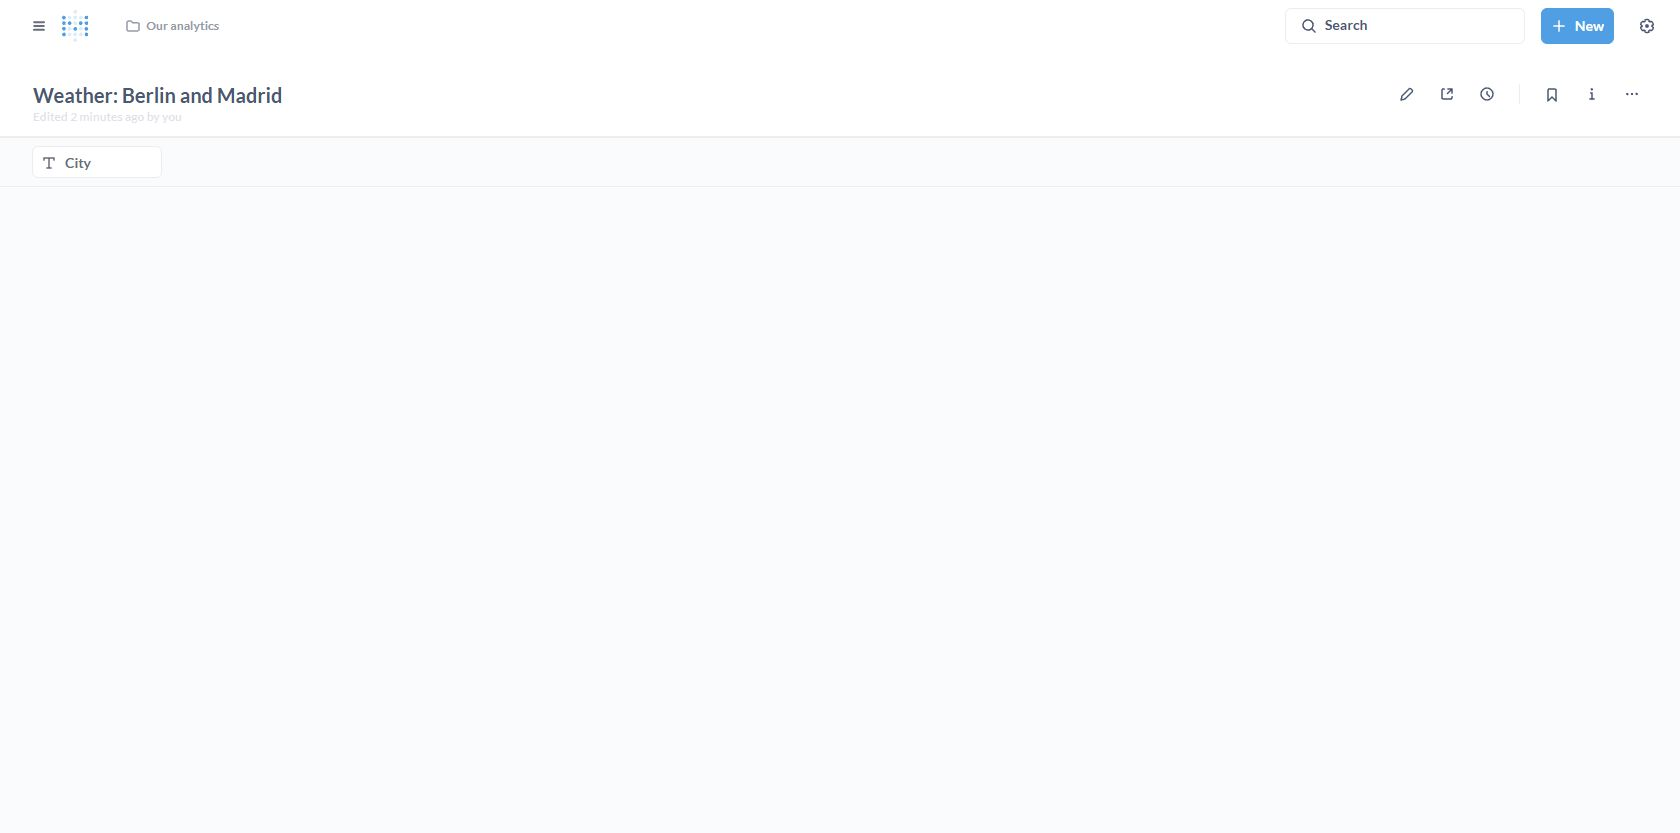
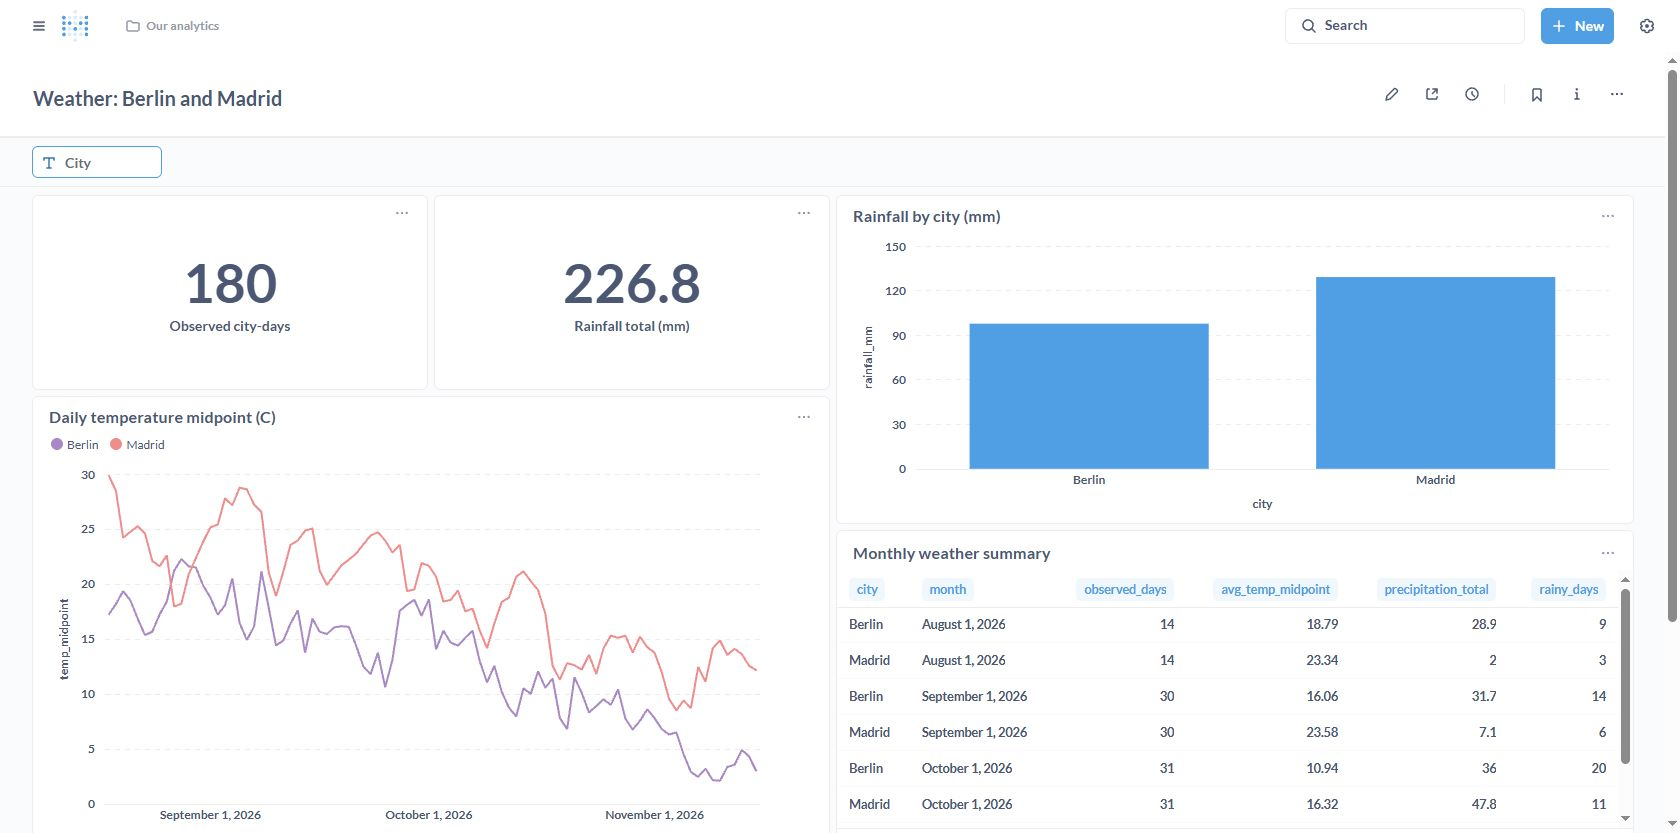
Save rendered project demo and submission status

diff --git a/37-weather-project/README.md b/37-weather-project/README.md
@@ -113,3 +113,5 @@ docker compose run --rm --no-deps -v "${PWD}:/app" pipeline python test_validati
 Это локальный учебный стенд. Один процесс и простой интервальный планировщик; параллельные загрузчики не предусмотрены. Для промышленного окружения нужны внешний оркестратор, наблюдаемость, отдельное хранилище метаданных Metabase, резервное копирование и управление доступом. H2 Metabase хранится в отдельном Docker volume. Данные PostgreSQL тоже в volume; остановка контейнеров их не удаляет.
 
 .env не публикуется. Нельзя делать docker compose down -v, если нужно сохранить данные. Успешная проверка проекта не означает, что его уже принял преподаватель.
+
+22.11.2026 проект опубликован и отправлен Вадиму Заигрину на проверку в карточке OTUS 49302. Согласование темы не означает принятия готового проекта: ответ преподавателя ожидается.
